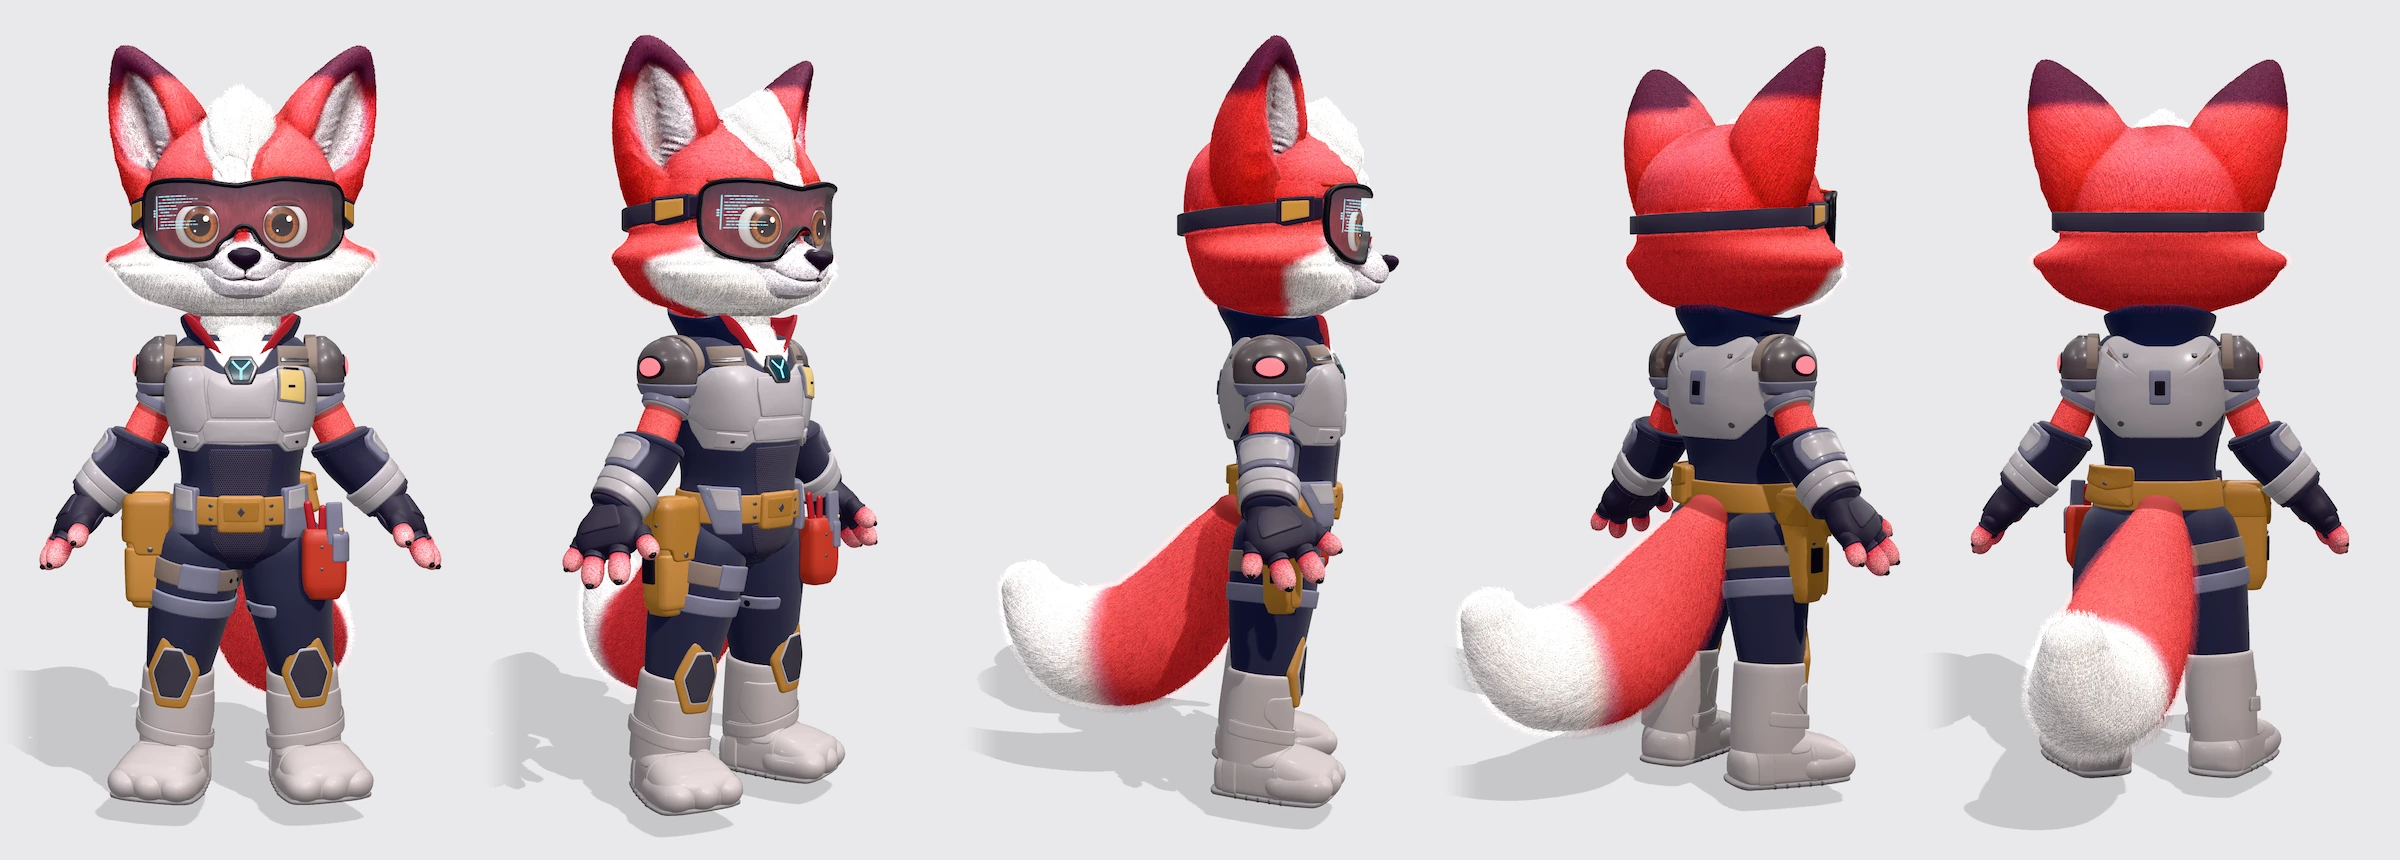
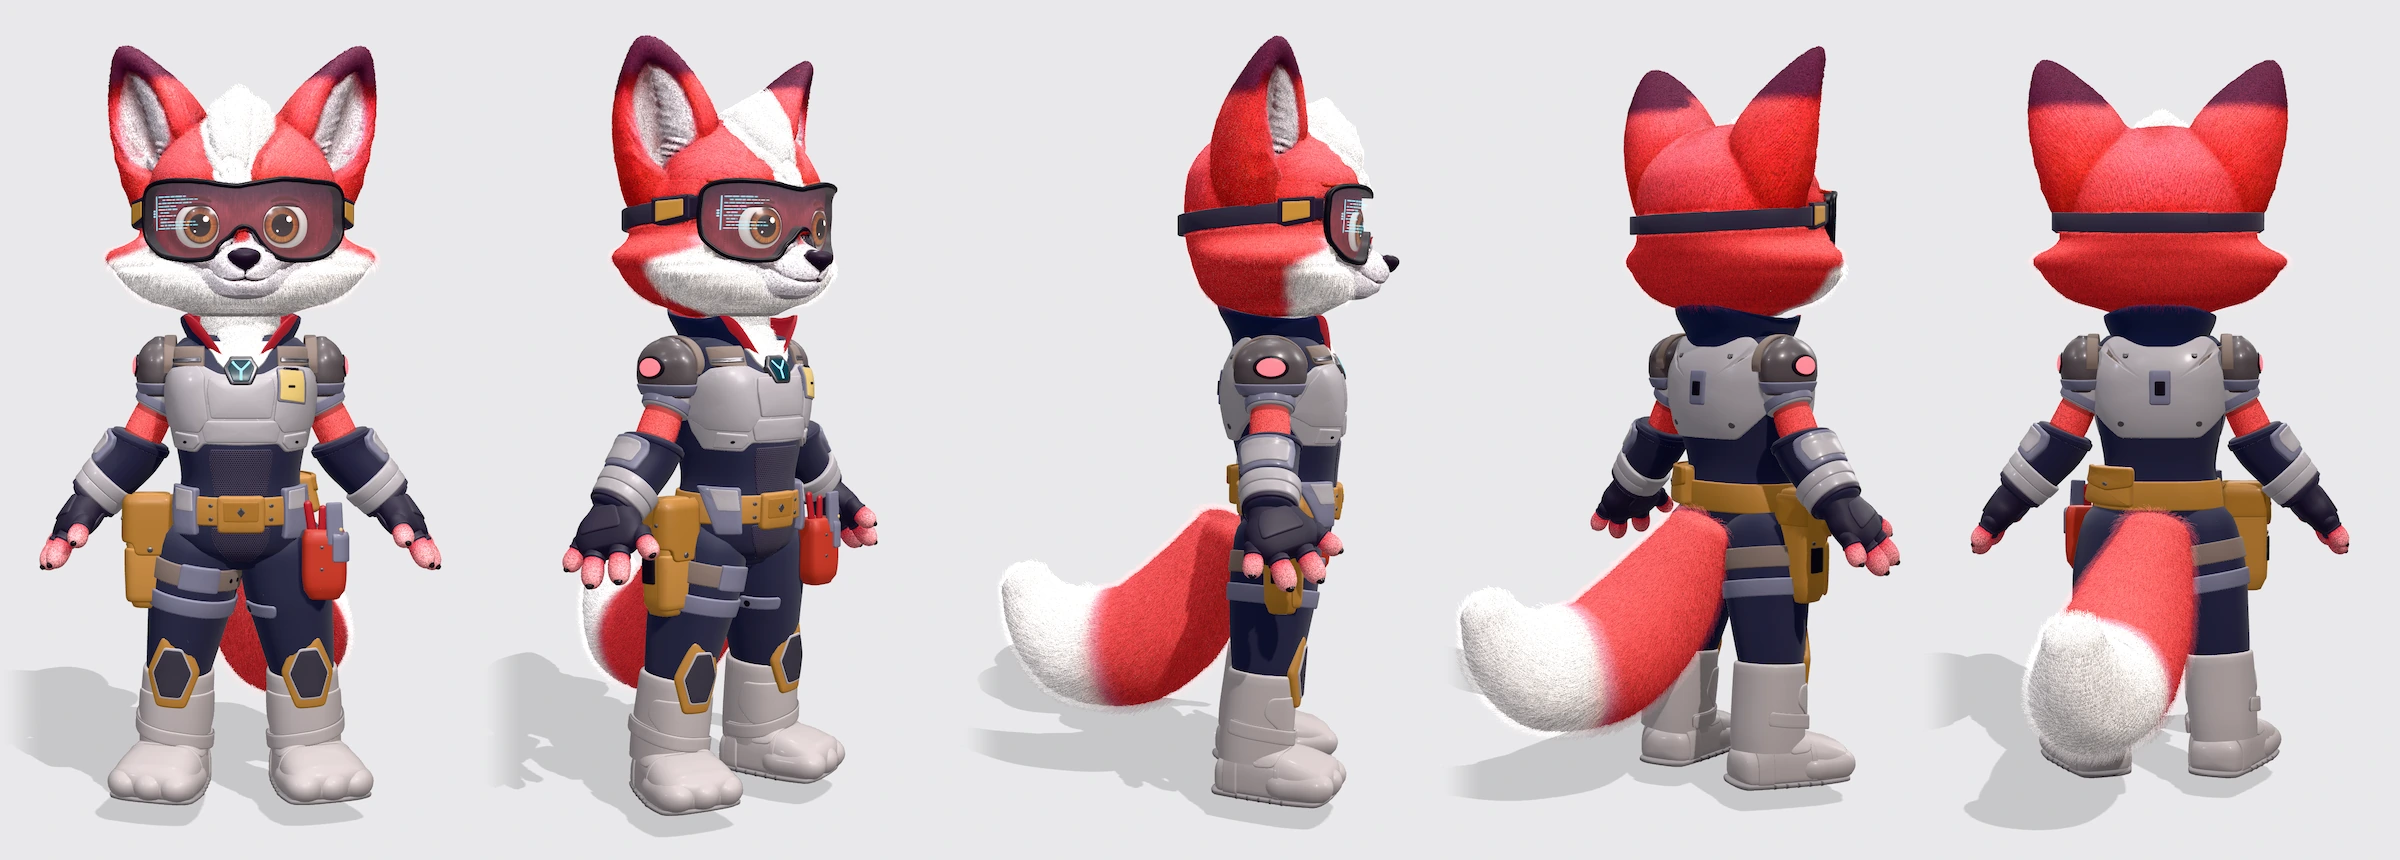
Manual: seção 16 na Prévia 5.5.4, com as cinco vistas refeitas
As vistas de costas mostram a cauda com pelo desde a base. Sai da nota de
diferenças a frase sobre a base da cauda lisa.

Claude-Session: https://claude.ai/code/session_01ADeYYPt8cUMPiQy7eTopJy

diff --git a/brandbook-html/index.html b/brandbook-html/index.html
@@ -795,14 +795,14 @@ SCENE: &lt;descreva a cena aqui&gt;</pre>
 <section id="modelo3d" class="light">
   <div class="wrap">
     <div class="sec-h"><span class="lab">16 — Modelo 3D</span><h2>A BIA em três dimensões, pronta para animar</h2>
-      <p class="lead">Além das artes geradas, a BIA tem um modelo 3D próprio, construído peça por peça a partir do turnaround e do retrato oficial. Ele tem esqueleto, animações e expressões, e serve para vídeo, tempo real e renders de qualquer ângulo. Esta é a Prévia 5.5.3: já serve para testes e peças internas, e segue em revisão fina contra as fichas.</p></div>
-    <figure><img class="sheet" src="img/m3d-turnaround.webp" alt="Modelo 3D da BIA Tech em cinco vistas: frente, três-quartos, perfil, três-quartos de costas e costas" width="2400" height="860" loading="lazy"><figcaption>Modelo 3D · Prévia 5.5.3 · cinco vistas na pose neutra, capturadas no visualizador</figcaption></figure>
+      <p class="lead">Além das artes geradas, a BIA tem um modelo 3D próprio, construído peça por peça a partir do turnaround e do retrato oficial. Ele tem esqueleto, animações e expressões, e serve para vídeo, tempo real e renders de qualquer ângulo. Esta é a Prévia 5.5.4: já serve para testes e peças internas, e segue em revisão fina contra as fichas.</p></div>
+    <figure><img class="sheet" src="img/m3d-turnaround.webp" alt="Modelo 3D da BIA Tech em cinco vistas: frente, três-quartos, perfil, três-quartos de costas e costas" width="2400" height="860" loading="lazy"><figcaption>Modelo 3D · Prévia 5.5.4 · cinco vistas na pose neutra, capturadas no visualizador</figcaption></figure>
     <div class="m3d-cta"><a class="copy" href="https://claude.ai/artifact/UDZjxMUn5wCQMYuXYVXqnm" target="_blank" rel="noopener">Abrir o visualizador 3D</a><span class="muted small">No visualizador dá para girar a BIA, aproximar, trocar a animação e a expressão e ligar o modo análise, que deixa o modelo parado na pose neutra.</span></div>
 
     <h3 class="sub-h">Ficha técnica e arquivos</h3>
     <div class="two">
       <div class="tbl"><table>
-        <tr><th>Versão</th><td>Prévia 5.5.3 · 13.11.2026</td></tr>
+        <tr><th>Versão</th><td>Prévia 5.5.4 · 13.11.2026</td></tr>
         <tr><th>Malha</th><td>295.400 triângulos, em peças separadas: corpo e figurino, cabeça, rosto, olhos, boca, óculos, lente e HUD</td></tr>
         <tr><th>Escala</th><td>Em metros. A BIA mede 1,25 m da sola das botas à ponta das orelhas</td></tr>
         <tr><th>Esqueleto</th><td>101 ossos, com ossos próprios para orelhas, cauda, mandíbula e cantos da boca</td></tr>
@@ -840,7 +840,7 @@ SCENE: &lt;descreva a cena aqui&gt;</pre>
       <div class="card"><h3>Câmera e luz</h3><span class="muted">Câmera na altura do peito dela ou levemente de baixo, como na seção 04. Sobre vermelho, use luz de recorte para separar o pelo do fundo.</span></div>
       <div class="card"><h3>Render que vira peça</h3><span class="muted">Passa pela checklist da seção 15 e pela aprovação da equipe b.ia tech, igual a uma arte gerada.</span></div>
     </div>
-    <p class="muted small" style="margin-top:20px;max-width:75ch">O que ainda difere das fichas nesta prévia: o topete é mais largo e mais em pé que a mecha do retrato, a divisa entre o pelo branco e o vermelho da bochecha é mais reta de perfil, as orelhas têm a borda mais grossa e a ponta mais arredondada, as botas e as bolsas do cinto têm superfície lisa, sem o grão do couro, e a base da cauda, vista de costas, ainda aparece lisa, sem pelo. Enquanto o modelo for prévia, as peças externas continuam saindo das artes das seções 08 a 11.</p>
+    <p class="muted small" style="margin-top:20px;max-width:75ch">O que ainda difere das fichas nesta prévia: o topete é mais largo e mais em pé que a mecha do retrato, a divisa entre o pelo branco e o vermelho da bochecha é mais reta de perfil, as orelhas têm a borda mais grossa e a ponta mais arredondada, e as botas e as bolsas do cinto têm superfície lisa, sem o grão do couro. Enquanto o modelo for prévia, as peças externas continuam saindo das artes das seções 08 a 11.</p>
   </div>
 </section>
 
@@ -871,7 +871,7 @@ SCENE: &lt;descreva a cena aqui&gt;</pre>
                           GLB e GLB web</div>
       <div class="tbl"><table>
         <tr><th>Versão</th><td>2.1 · 13.11.2026</td></tr>
-        <tr><th>Modelo 3D</th><td>Prévia 5.5.3 · uso interno até a versão final</td></tr>
+        <tr><th>Modelo 3D</th><td>Prévia 5.5.4 · uso interno até a versão final</td></tr>
         <tr><th>Base</th><td>Ficha de personagem v2 (aprovada em 29.09.2026) e Manual de Identidade b.ia tech 2026</td></tr>
         <tr><th>Marca-mãe</th><td>Brandbook Bradesco (set/2026)</td></tr>
         <tr><th>Peça nova</th><td>Passa pelo checklist da seção 15 e pela aprovação da equipe b.ia tech antes de circular</td></tr>
